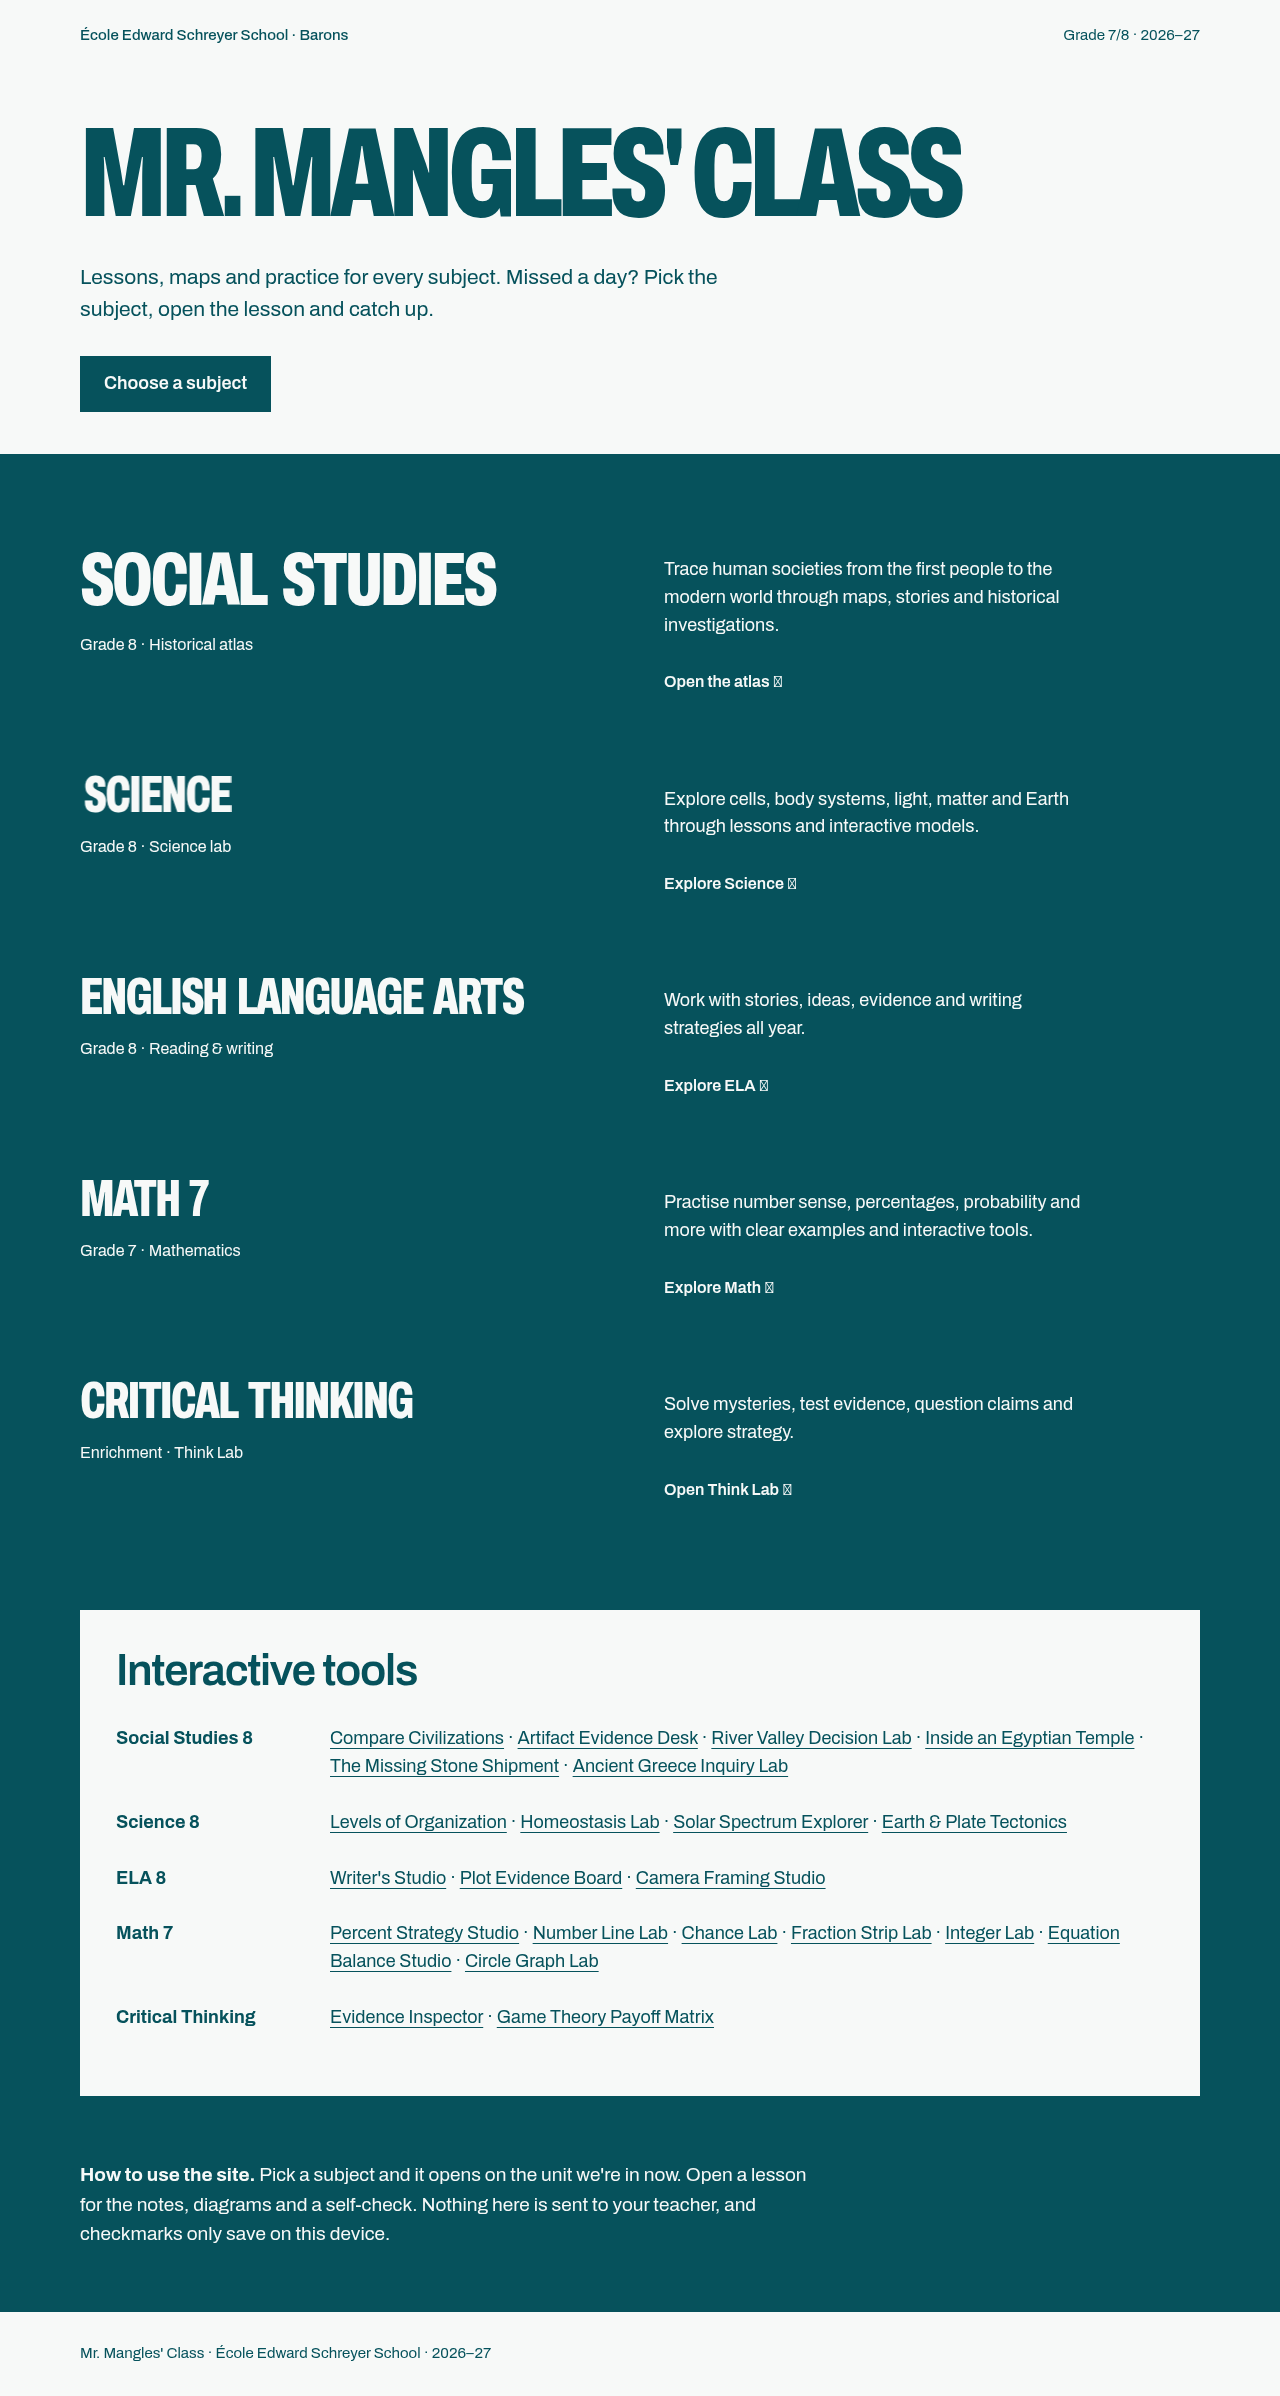
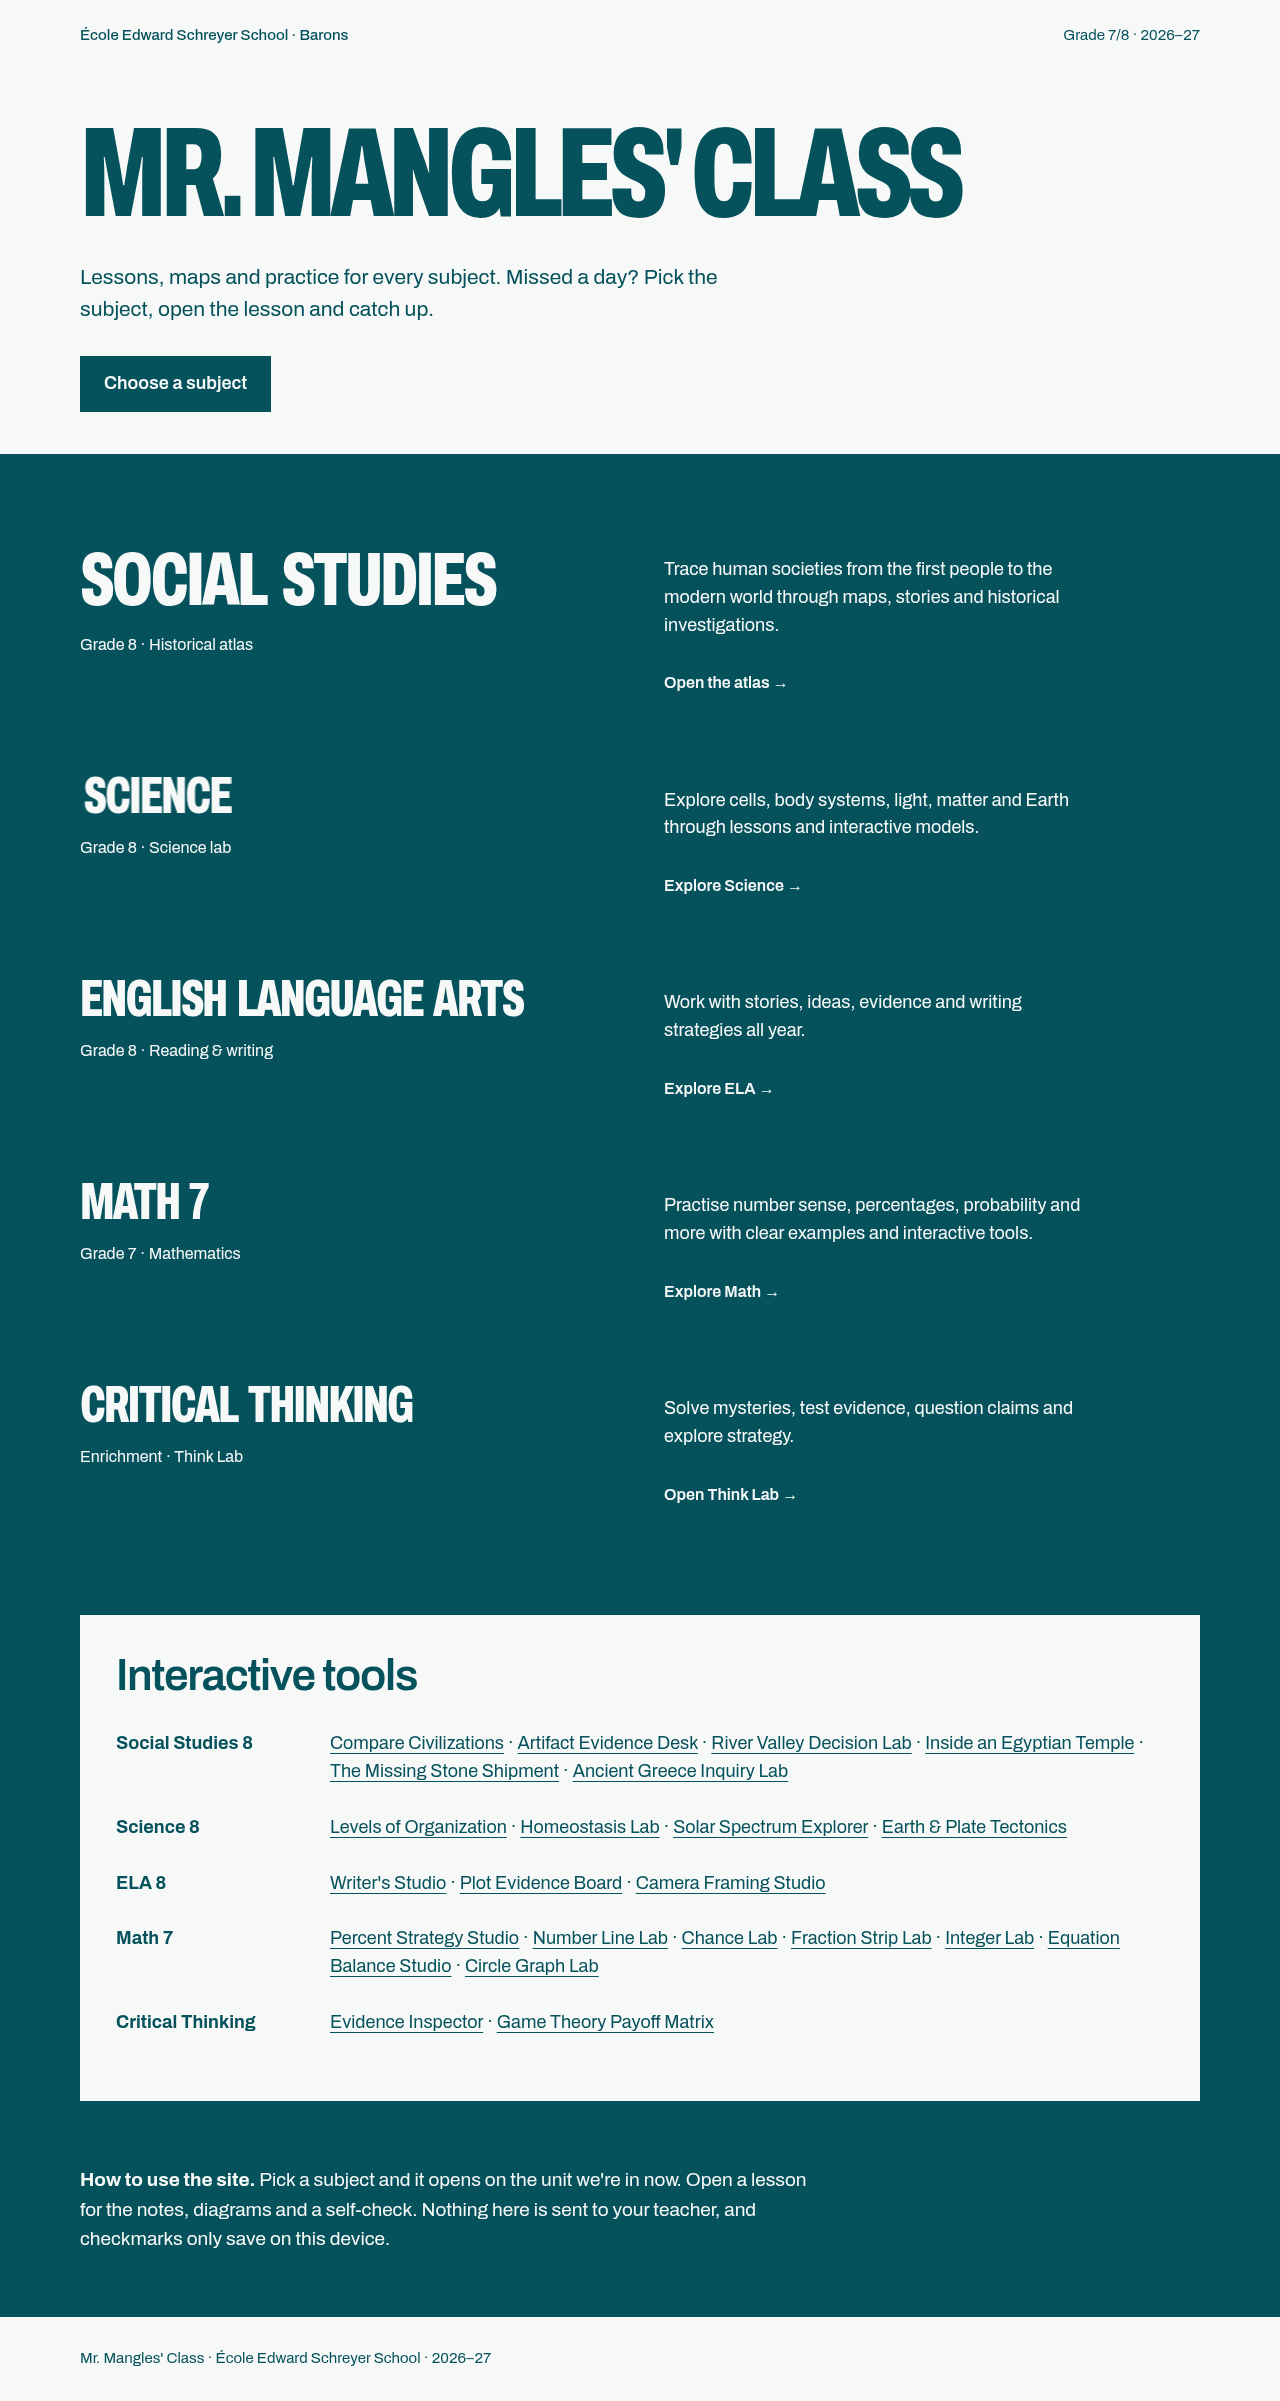
Use a supported arrow glyph in subject links

diff --git a/index.html b/index.html
@@ -26,11 +26,11 @@
 <main class="wrap home-main">
   
   <section id="subjects" class="home-tiles" aria-label="Subjects">
-    <article class="home-tile ss"><a href="social-studies/"><span class="year">Grade 8 · Historical atlas</span><span class="name">Social Studies</span><span class="detail">Trace human societies from the first people to the modern world through maps, stories and historical investigations.</span><span class="tile-link">Open the atlas ↗</span></a></article>
-    <article class="home-tile sci"><a href="science/"><span class="year">Grade 8 · Science lab</span><span class="name">Science</span><span class="detail">Explore cells, body systems, light, matter and Earth through lessons and interactive models.</span><span class="tile-link">Explore Science ↗</span></a></article>
-    <article class="home-tile ela"><a href="ela/"><span class="year">Grade 8 · Reading & writing</span><span class="name">English Language Arts</span><span class="detail">Work with stories, ideas, evidence and writing strategies all year.</span><span class="tile-link">Explore ELA ↗</span></a></article>
-    <article class="home-tile math"><a href="math/"><span class="year">Grade 7 · Mathematics</span><span class="name">Math 7</span><span class="detail">Practise number sense, percentages, probability and more with clear examples and interactive tools.</span><span class="tile-link">Explore Math ↗</span></a></article>
-    <article class="home-tile ct"><a href="critical-thinking/"><span class="year">Enrichment · Think Lab</span><span class="name">Critical Thinking</span><span class="detail">Solve mysteries, test evidence, question claims and explore strategy.</span><span class="tile-link">Open Think Lab ↗</span></a></article>
+    <article class="home-tile ss"><a href="social-studies/"><span class="year">Grade 8 · Historical atlas</span><span class="name">Social Studies</span><span class="detail">Trace human societies from the first people to the modern world through maps, stories and historical investigations.</span><span class="tile-link">Open the atlas <span aria-hidden="true" style="font-family:system-ui,sans-serif">→</span></span></a></article>
+    <article class="home-tile sci"><a href="science/"><span class="year">Grade 8 · Science lab</span><span class="name">Science</span><span class="detail">Explore cells, body systems, light, matter and Earth through lessons and interactive models.</span><span class="tile-link">Explore Science <span aria-hidden="true" style="font-family:system-ui,sans-serif">→</span></span></a></article>
+    <article class="home-tile ela"><a href="ela/"><span class="year">Grade 8 · Reading & writing</span><span class="name">English Language Arts</span><span class="detail">Work with stories, ideas, evidence and writing strategies all year.</span><span class="tile-link">Explore ELA <span aria-hidden="true" style="font-family:system-ui,sans-serif">→</span></span></a></article>
+    <article class="home-tile math"><a href="math/"><span class="year">Grade 7 · Mathematics</span><span class="name">Math 7</span><span class="detail">Practise number sense, percentages, probability and more with clear examples and interactive tools.</span><span class="tile-link">Explore Math <span aria-hidden="true" style="font-family:system-ui,sans-serif">→</span></span></a></article>
+    <article class="home-tile ct"><a href="critical-thinking/"><span class="year">Enrichment · Think Lab</span><span class="name">Critical Thinking</span><span class="detail">Solve mysteries, test evidence, question claims and explore strategy.</span><span class="tile-link">Open Think Lab <span aria-hidden="true" style="font-family:system-ui,sans-serif">→</span></span></a></article>
   </section>
   <section class="home-tools" aria-labelledby="tools-heading">
     <h2 id="tools-heading">Interactive tools</h2>
